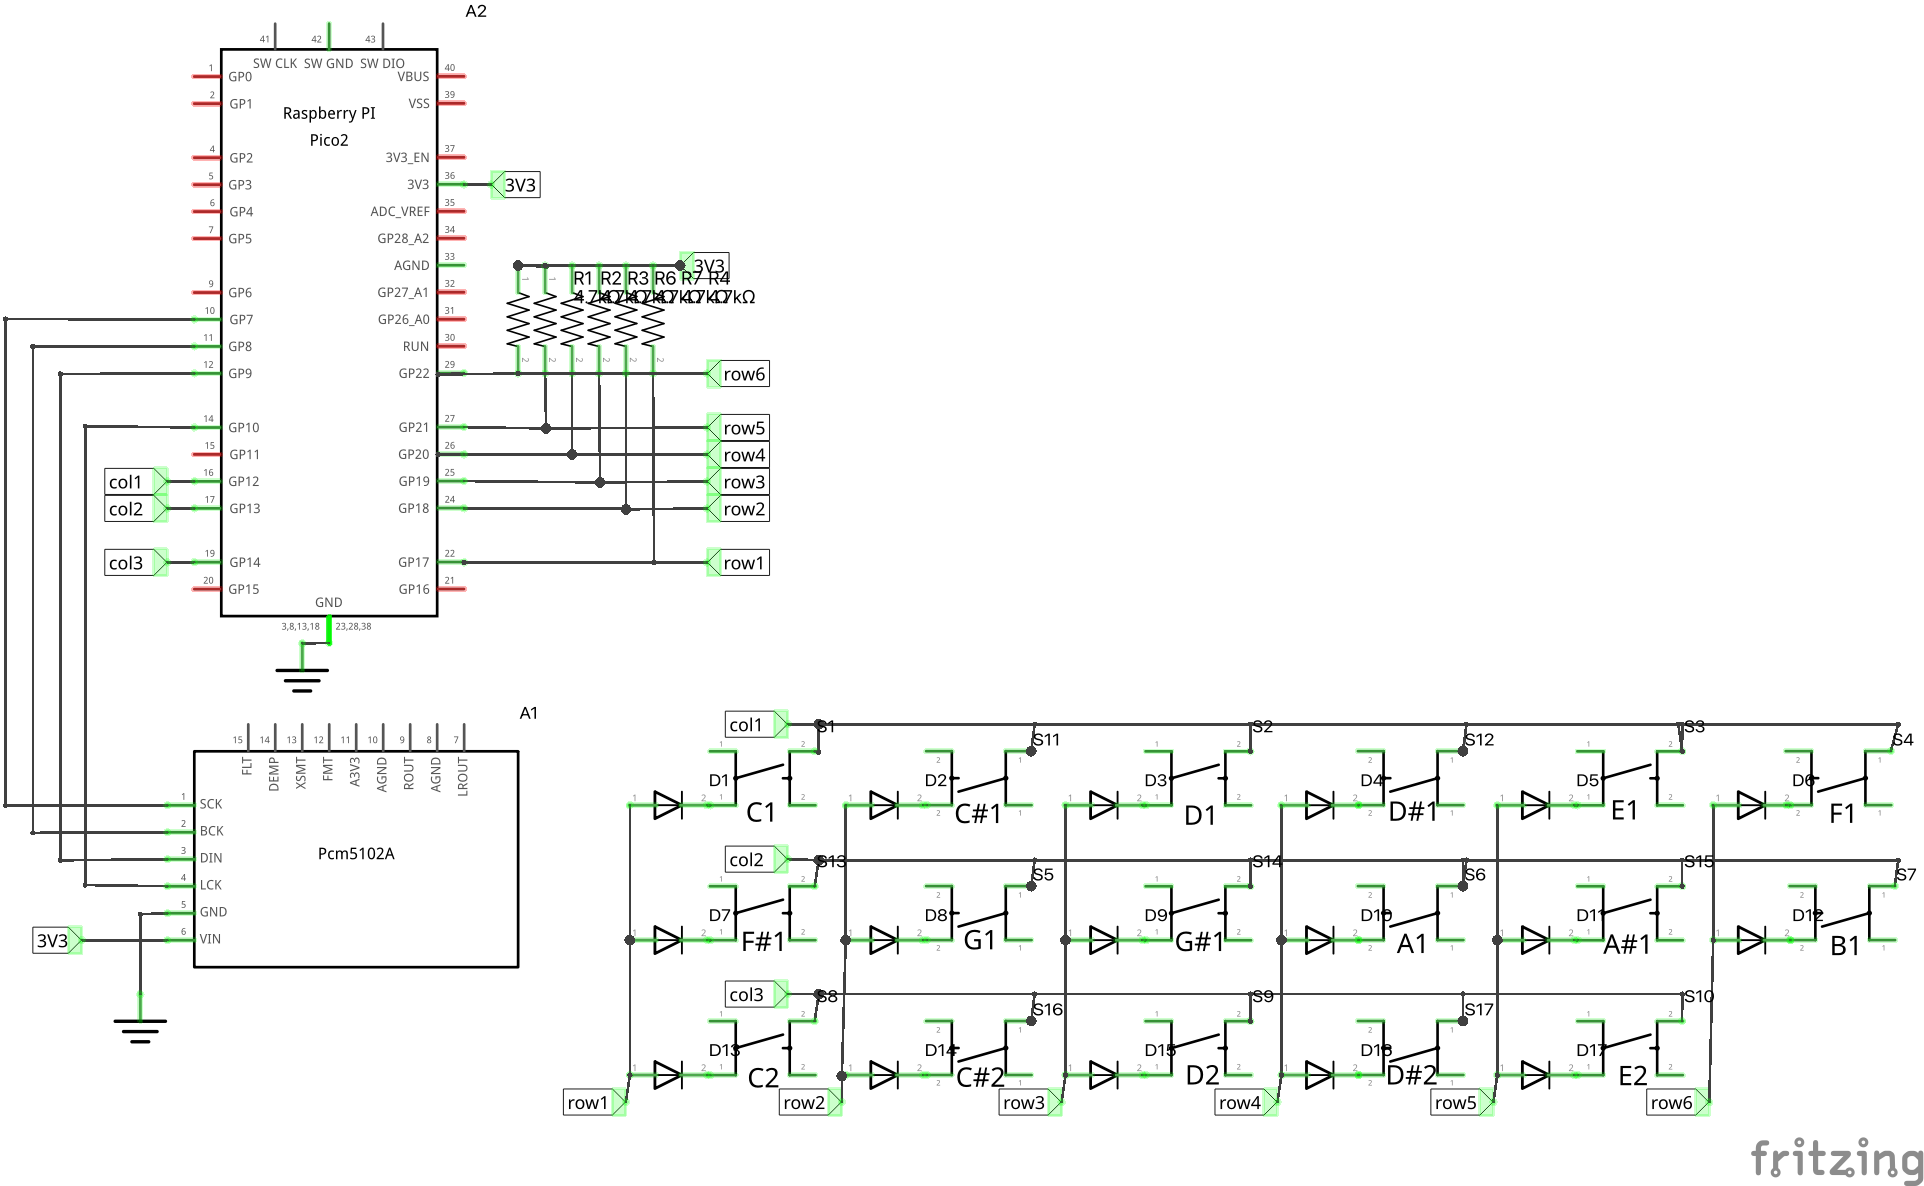
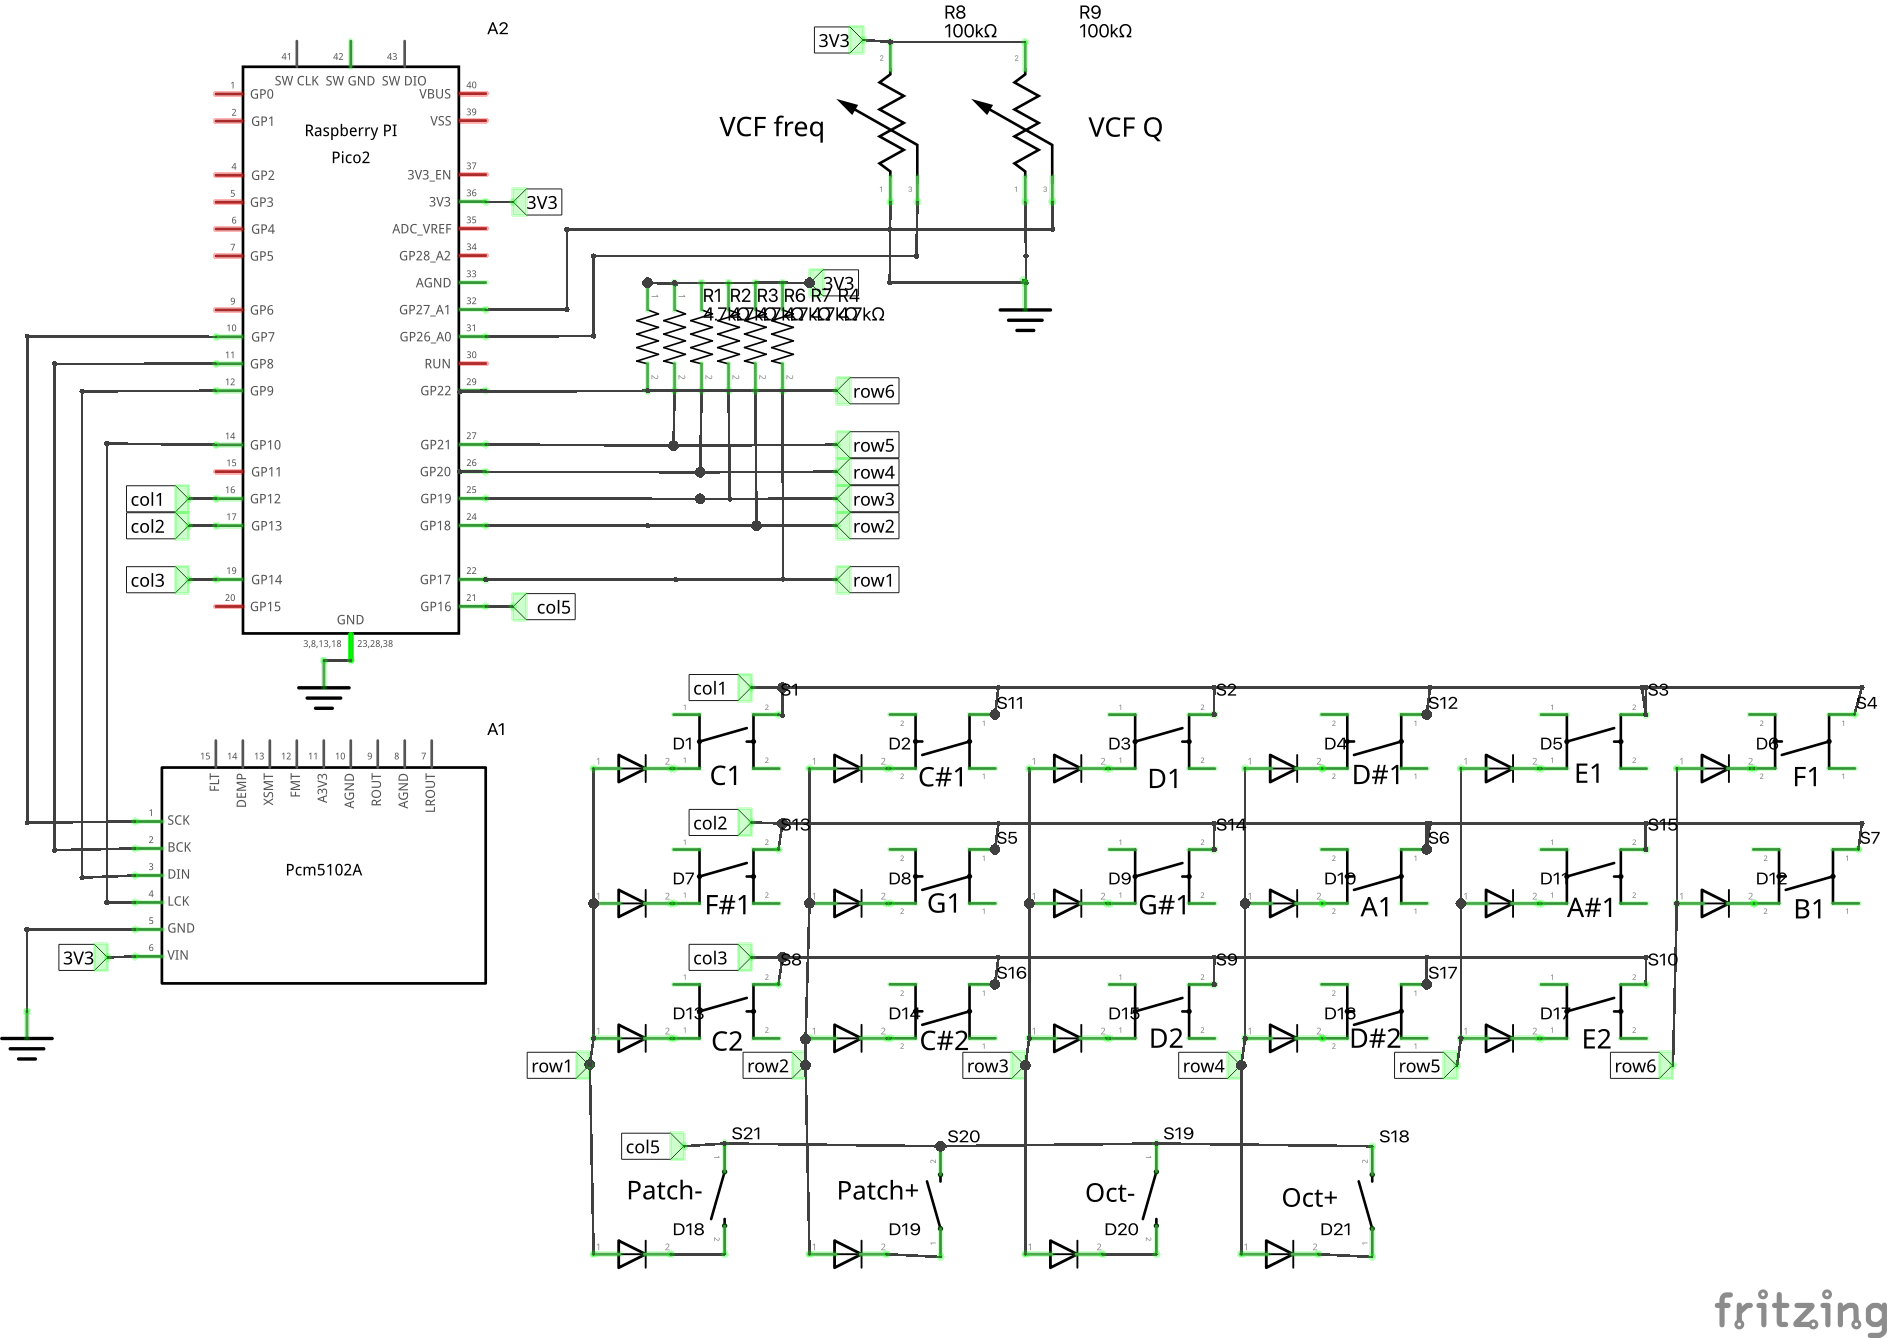
AMY_keypad: Update schematics to include control keys & pots; update text to match.

diff --git a/docs/amy_keypad.md b/docs/amy_keypad.md
@@ -13,9 +13,9 @@ Here’s the breadboard layout and corresponding schematic:
 
 The Pico connects to the PCM510x DAC module with the standard four I2S wires (SCK isn’t needed for DAC output, but we typically use it to make it easy to add an ADC later).
 
-The keypad is a 6 x 4 matrix (only the first 3 of the 4 columns are currently used; also, the schematic shows the matrix transposed, i.e. each left-to-right row is a “column” from the software’s point of view).  The piano key layout breaks each octave into two “columns” of 6 semitones each, so the three rows shown cover one-and-a-half octaves.  The software provides for a 4th “column” of control keys (e.g. for changing patch) but I haven’t connected them here.  The keypad is read (with the Arduino Keypad library) by successively pulling each “column” line low, and seeing which “row” inputs are pulled low.  Each “row” input has a pullup resistor so if no key is pressed, it reads high.  Each key button has an associated diode; this is to avoid the “n-key rollover” problem, where pressing several keys can lead to other “ghost” keys.
+The keypad is a 6 x 5 matrix; the piano key layout breaks each octave into two “columns” of 6 semitones each, so the first four "columns" cover two octaves, and the fifth column is used for control keys.  (The 4th column, corresponding to the upper half of the second octave, is currenty unused).  The schematic shows the matrix transposed, i.e. each left-to-right row in the schematic is a “column” from the software’s point of view.  The keypad is read (with the Arduino Keypad library) by successively pulling each “column” line low, and seeing which “row” inputs are pulled low.  Each “row” input has a pullup resistor so if no key is pressed, it reads high.  Each key button has an associated diode; this is to avoid the “n-key rollover” problem, where pressing several keys can lead to other “ghost” keypresses.
 
-The wiring of the key buttons on the breadboard is a little odd - I shared the “column” input of some keys by putting them in the same set of connectors on the breadboard, with the result that I take the outputs from alternate sides.  As a result, the “row” connections don’t come out in strict order.
+The wiring of the key buttons on the breadboard is a little odd - I shared the “column” input of some keys by putting them in the same set of connectors on the breadboard, with the result that I take the outputs from alternate sides.  As a result, the “row” connections don’t come out of the top of the breadboard in strict order.
 
 Here’s a photo of my build. It’s not exactly what’s in the schematic - I have an ADC and MIDI input connected. Also, the switches I used (which I don’t particularly recommend) had only 2 pins, but kept jumping out of the breadboard, so I ended up soldering onto a strip board. Consequently, when I realized the diodes were pointing the wrong way, it wasn’t attractive to try to fix it.
 
@@ -85,7 +85,7 @@ The main `loop()` function includes the call to `amy_update()`, which is part of
 
 ### Keypad  code
 
-This is perhaps the most complicated part, just because it’s fiddly to deal with so many inputs, and because the crucial calls to `amy_add_event()` (which actually cause the consequences of key presses) are buried in the middle.  As we saw in the schematic, we handle up to 30 keys as a matrix of 5 “columns” each consisting of 6 “rows” - meaning we only have to use 11 GPIO pins (one for each row and column), not 30 as in a simpler approach where each key gets its own GPIO.  Fortunately, this kind of matrix keypad is common enough that there’s a well-established Arduino library, [Keypad](https://github.com/Chris--A/Keypad), which presents us with an easy-to-use interface and handles all the scanning etc.  So the keypad initialization code is all in the constructor for the library-provided type `Keypad kpd`, which takes the matrix geometry (`ROWS` and `COLS`), the GPIO pins they are attached to, and a keymap based on a 2D array of chars, defining the single char that will be returned by each key in the matrix.  These are arbitrary, but for simplicity we arrange our keyboard to have one letter per semitone.  We also use digits for the “control keys”, which we include in the same matrix.  We keep our `keypad_setup()` to preserve our `setup/update` framework, but it’s empty.
+This is perhaps the most complicated part, just because it’s fiddly to deal with so many inputs, and because the crucial calls to `amy_add_event()` (which actually cause the consequences of key presses) are buried in the middle.  As we saw in the schematic, we handle up to 30 keys as a matrix of 5 “columns” each consisting of 6 “rows” - meaning we only have to use 11 GPIO pins (one for each row and column), not 30 as in a simpler approach where each key gets its own GPIO.  Fortunately, this kind of matrix keypad is common enough that there’s a well-established Arduino library, [Keypad](https://github.com/Chris--A/Keypad), which presents us with an easy-to-use interface and handles all the scanning etc.  The keypad initialization code is all in the constructor for the library-provided type `Keypad kpd`, which takes the matrix geometry (`ROWS` and `COLS`), the GPIO pins they are attached to, and a keymap based on a 2D array of chars, defining the single char that will be returned by each key in the matrix.  These are arbitrary, but for simplicity we arrange our keyboard to have one letter per semitone.  We also use digits for the “control keys”, which we include in the same matrix.  We keep our `keypad_setup()` function to preserve our `setup/update` framework, but it’s empty.
 
 ```C
 // -----------------
@@ -195,13 +195,14 @@ void keypad_update() {
 ```
 
 ### Knob code
-The other source of `amy_events` is the potentiometer knobs optionally connected to the RP2350 ADC inputs (GP26, 27, and 28). The sketch sets up the first to control the base filter frequency, and the second to change the filter resonance.  Essentially, we just read the ADC inputs every loop, scale them, and set the corresponding AMY parameter (for the Juno synth, the VCF is all configured on osc 0, so we just send the command to `synth = 1` and it gets applied to `osc = 0` by default).  However, rather than flooding AMY with repeated calls to set the same values, we only update the parameters if we detect a change in the ADC input value.  We apply a small minimum change threshold `knob_slack` to further avoid excessive updates from ADC input noise.
+
+The other source of `amy_events` is the potentiometer knobs optionally connected to the RP2350 ADC inputs (GP26, 27, and 28). The sketch sets up the first to control the base filter frequency, and the second to change the filter resonance.  Essentially, we just read the ADC inputs every loop, scale them, and set the corresponding AMY parameter (for the Juno synth, the VCF is configured on osc 0, so we just send the command to `synth = 1` and it gets applied to `osc = 0` by default).  However, rather than flooding AMY with repeated calls to set the same values, we only update the parameters if we detect a change in the ADC input value.  We apply a small minimum change threshold, `knob_slack`, to further avoid excessive updates from ADC input noise.
 
 ```C
 // ---------------------
 // Knobs input
 // Potentiometers connected to RP2040 ADC in (GPIO 26, 27, 28)
-// can be used to control parameters...
+// can be used to control parameters.
 // ---------------------
 void knobs_setup () {
  // nothing to do
@@ -224,10 +225,10 @@ void knobs_update () {
      // The ADCs read an integer value 0..4095.  Convert to a float 0..1.
      float knob_fval = (float)new_val / 4095.0f;
      if (knob == 0) {
-       // Knob 0 adjusts filter freq
+       // Knob 0 adjusts VCF base freq from 50Hz to 8 octaves higher (12.8 kHz)
        e.filter_freq_coefs[COEF_CONST] = 50.f * exp2f(knob_fval * 8.0f);
      } else if (knob == 1) {
-       // Knob 1 adjusts filter resonance
+       // Knob 1 adjusts filter resonance - vary from 0 to 8.
        e.resonance = 8.0f * knob_fval;
      }
      amy_add_event(&e);
